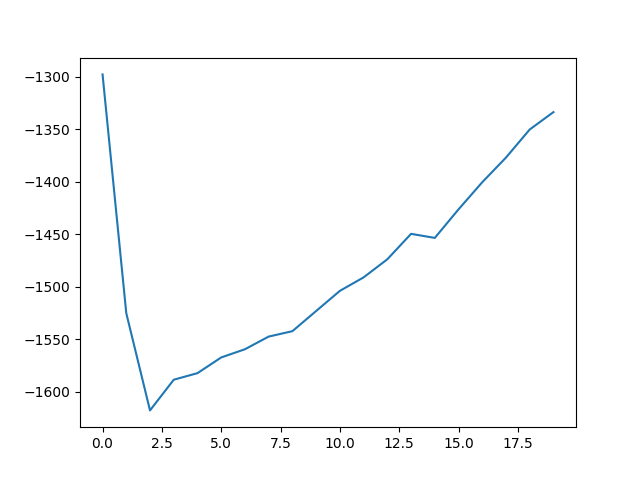
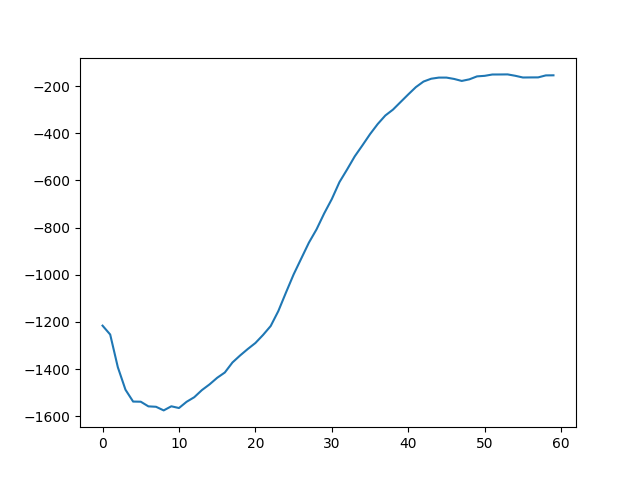
DDPG

diff --git a/DDPG-Pendulum.py b/DDPG-Pendulum.py
@@ -23,7 +23,7 @@ device = 'cuda' if torch.cuda.is_available() else 'cpu'
 device = 'cpu'  # 强制使用 CPU，有时由于数据传输开销，GPU 并非总是更快
 
 # 策略网络（Actor），输出确定性动作
-class PolicyNet(nn.Module):
+class ActorNet(nn.Module):
     def __init__(self, state_dim, action_dim, hidden_dim, action_bound):
         super().__init__()
         self.fc1 = nn.Linear(state_dim, hidden_dim)
@@ -37,7 +37,7 @@ class PolicyNet(nn.Module):
         return torch.tanh(self.fc3(x)) * self.action_bound  # 输出范围 [-action_bound, action_bound]
 
 # Q 值网络（Critic），估计状态-动作对的价值
-class QValueNet(nn.Module):
+class CriticNet(nn.Module):
     def __init__(self, state_dim, action_dim, hidden_dim):
         super().__init__()
         self.fc1 = nn.Linear(state_dim + action_dim, hidden_dim)
@@ -70,7 +70,7 @@ def train():
     # 超参数设置
     learning_rate_actor = 0.0003  # Actor 网络学习率，控制策略更新速度
     learning_rate_critic = 0.001  # Critic 网络学习率，控制价值估计更新速度
-    discount_factor_g = 0.99  # 折扣因子 gamma，用于计算未来奖励的折现
+    gamma = 0.99  # 折扣因子 gamma，用于计算未来奖励的折现
 
     hidden_dim = 128  # 隐藏层神经元数量，决定网络容量
     max_steps_per_episode = 10000  # 每个回合的最大步数上限
@@ -87,7 +87,6 @@ def train():
     rewards_all_episodes = []  # 存储每个回合的总奖励
     episodes_iter = 0  # 回合计数器
 
-    # 创建 Pendulum-v1 环境
     env = gym.make('Pendulum-v1')
     states_dim = env.observation_space.shape[0]
     actions_dim = env.action_space.shape[0]
@@ -95,21 +94,20 @@ def train():
     print(f'状态空间维度: {states_dim}, 动作空间维度: {actions_dim}')
 
     # 初始化 Actor 和 Critic 网络并移到指定设备
-    actor = PolicyNet(states_dim, actions_dim, hidden_dim, action_bound).to(device)
-    actor_target = PolicyNet(states_dim, actions_dim, hidden_dim, action_bound).to(device)
+    actor = ActorNet(states_dim, actions_dim, hidden_dim, action_bound).to(device)
+    actor_target = ActorNet(states_dim, actions_dim, hidden_dim, action_bound).to(device)
     actor_target.load_state_dict(actor.state_dict())
 
-    critic = QValueNet(states_dim, actions_dim, hidden_dim).to(device)
-    critic_target = QValueNet(states_dim, actions_dim, hidden_dim).to(device) 
+    critic = CriticNet(states_dim, actions_dim, hidden_dim).to(device)
+    critic_target = CriticNet(states_dim, actions_dim, hidden_dim).to(device) 
     critic_target.load_state_dict(critic.state_dict())
     # 定义优化器和损失函数
     actor_optimizer = torch.optim.Adam(actor.parameters(), lr=learning_rate_actor)
     critic_optimizer = torch.optim.Adam(critic.parameters(), lr=learning_rate_critic)
-    critic_loss_fn = nn.MSELoss()  #  使用均方误差损失，优化价值估计
 
     # 训练主循环
     for episode in range(140):
-        state = env.reset()[0]  # 重置环境，获取初始状态
+        state = env.reset()[0]  
         state = torch.tensor(state, dtype=torch.float32, device=device)
         rewards_one_episode = 0  # 当前回合的总奖励
 
@@ -120,46 +118,50 @@ def train():
         for t in range(max_steps_per_episode):
         #while not( terminated or truncated) and rewards_one_episode < 100:
             with torch.no_grad():  # 采样时不计算梯度，节省计算资源
-                action = actor(state).flatten()
+                action = actor(state).flatten()#flatten():展平输出，将动作转换为一维张量
                 noise = np.random.normal(0, noise_std, size=actions_dim)  # 高斯噪声
-                action = np.clip(action.cpu().numpy() + noise, -action_bound, action_bound)  # NumPy 操作
+                action = np.clip(action.cpu().numpy() + noise, -action_bound, action_bound)#将动作限制在 [-action_bound, action_bound] 范围内
                 action = torch.tensor(action, dtype=torch.float32, device=device)  # 转换回张量
 
             next_state, reward, terminated, truncated, _ = env.step(action.numpy())
             rewards_one_episode += reward
 
             # 将数据转换为张量并存储到轨迹中
-            next_state = torch.tensor(next_state, dtype=torch.float32, device=device)
-            reward = torch.tensor([reward], dtype=torch.float32, device=device)
-            terminated = torch.tensor([terminated], dtype=torch.float32, device=device)
+            next_state = torch.tensor(next_state, dtype=torch.float32, device=device).detach()
+            reward = torch.tensor([reward], dtype=torch.float32, device=device).detach()
+            terminated = torch.tensor([terminated], dtype=torch.float32, device=device).detach()
+            truncated = torch.tensor([truncated], dtype=torch.float32, device=device).detach()
+            done = terminated.bool() | truncated.bool()
 
-            replay_buffer.append((state, action, next_state, reward, terminated))
+            replay_buffer.append((state, action.detach(), next_state, reward, terminated, truncated))
 
             state = next_state  # 更新状态
 
             # 如果缓冲区足够大，开始训练
             if len(replay_buffer) > batch_size:
                 mini_batch = replay_buffer.sample(batch_size)
-                states, actions, new_states, rewards, terminations = zip(*mini_batch)
+                states, actions, new_states, rewards, terminations, truncated = zip(*mini_batch)
 
                 states = torch.stack(states)  #直接变成  shape = (mini_batch_size, states.n=3)
                 actions = torch.stack(actions)
                 new_states = torch.stack(new_states)
                 rewards = torch.stack(rewards)
                 terminations = torch.stack(terminations)
+                truncated = torch.stack(truncated)
 
                 # 计算目标 Q 值
                 with torch.no_grad():
                     next_actions = actor_target(new_states)
-                    target_q = critic_target(new_states, next_actions)
-                    q_targets = rewards + discount_factor_g * target_q * (1 - terminations)  # Bellman 方程
-
+                    next_Q = critic_target(new_states, next_actions)
+                    target_Q = rewards + gamma * next_Q * (1 - done.float())  # Bellman 方程
+                
                 # 更新 Critic
                 q_values = critic(states, actions)
-                critic_loss = critic_loss_fn(q_values, q_targets)
+                critic_loss = nn.MSELoss()(q_values, target_Q)
+
                 critic_optimizer.zero_grad()
                 critic_loss.backward()
-                torch.nn.utils.clip_grad_norm_(critic.parameters(), 1.0)  # 梯度裁剪
+                torch.nn.utils.clip_grad_norm_(critic.parameters(), 1.0)  # 梯度裁剪 不能超过1.0*max梯度
                 critic_optimizer.step()
 
                 # 更新 Actor
@@ -175,7 +177,7 @@ def train():
                 for target_param, param in zip(critic_target.parameters(), critic.parameters()):
                     target_param.data.copy_(tau * param.data + (1 - tau) * target_param.data)
 
-            if terminated or truncated:  # 回合结束条件
+            if done.item():
                 break
         rewards_all_episodes.append(rewards_one_episode)
         episodes_iter += 1
@@ -206,7 +208,7 @@ def test():
     hidden_dim = 128
 
     # 初始化 Actor 网络并加载模型
-    actor = PolicyNet(state_dim, action_dim, hidden_dim, action_bound).to(device)
+    actor = ActorNet(state_dim, action_dim, hidden_dim, action_bound).to(device)
     try:
         actor.load_state_dict(torch.load('DDPG-Pendulum_actor_net.pt', map_location=device))
         print("成功加载训练好的 Actor 模型")

diff --git a/DDPG-Pendulum.md b/DDPG-Pendulum.md
@@ -1,0 +1,29 @@
+
+# DDPG（连续动作空间）
+
+每步更新
+## 1.步进
+
+确定性策略+探索性噪声
+
+$a_t = \pi(s_t)+N(0, noise_std²)$
+
+## 2.从历史经验中采样单个批次
+
+## 3.计算目标Q值
+
+$Q_{target}(s_t, a_t) = r_t + γ * Q(s_{t+1}, a_{target\, t+1}') * (1 - done_t)$
+
+## 4.更新Critic（Q网络）
+
+$Q_{Loss} =\frac{1}{N} \sum_{t=1}^{N} (Q_{target}(s_t, a_t) - Q(s_t, a_t))^2$
+
+## 5.更新Actor（策略网络）
+
+$a_{Loss} = -\mathbb{E}_{N}(Q(s_t, \pi(s_t)))$
+
+## 6.更新目标网络
+
+$\theta^-_{actor} =\tau \theta_{actor} +(1-\tau)\theta^-_{actor}$
+
+$\theta^-_{critic} =\tau \theta_{critic} +(1-\tau)\theta^-_{critic}$